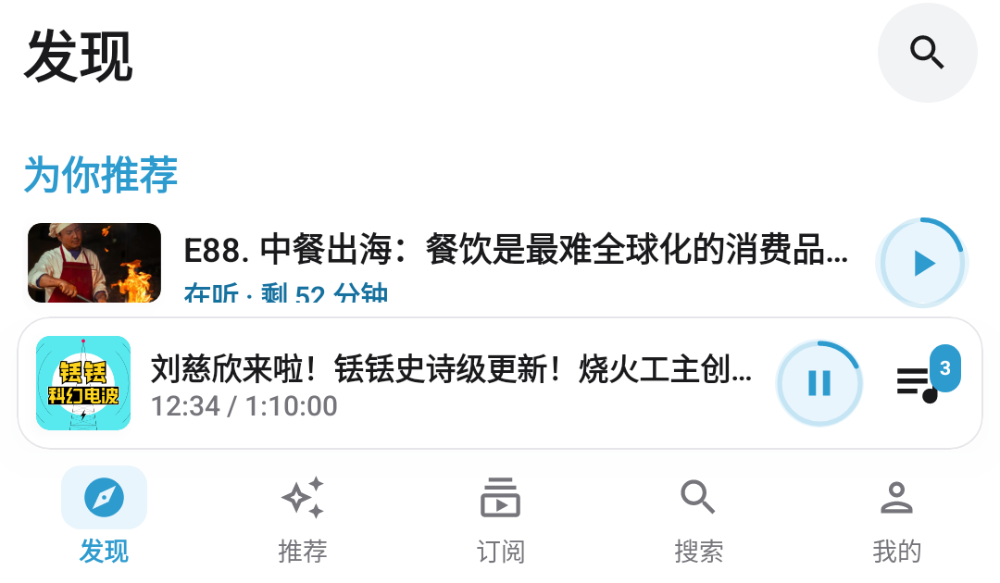
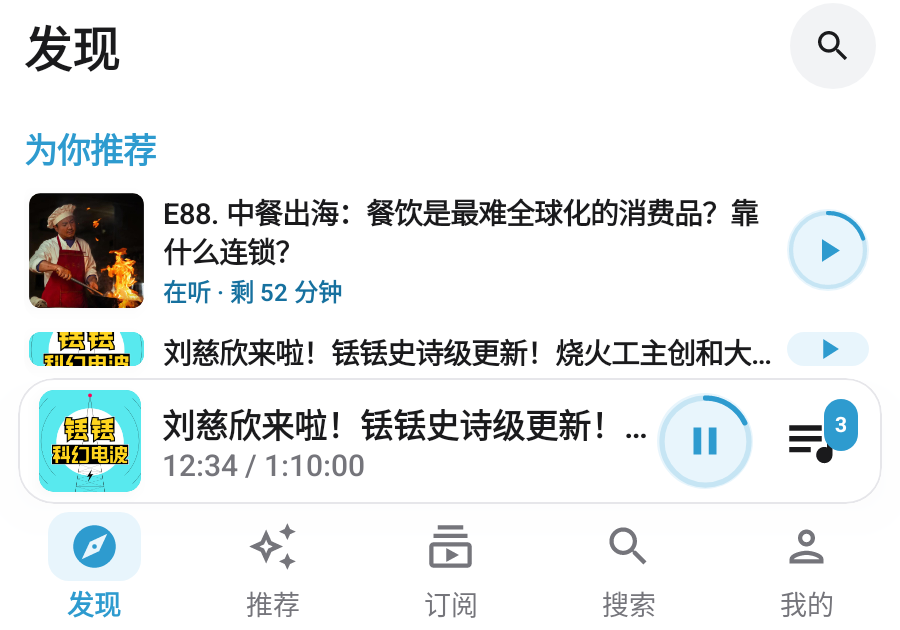
feat(ui): scale only the content area and tighten cards
The car screen showed too little per page at the old default size, but
shrinking everything also shrank the navigation rail. Display size now
scales only the content area, the steps move down so the new default
equals the old smallest step, and recommend cards, the mini player and
the narrow bottom nav are more compact. Snapshots now use the car's
real 1280x600 dp window.

diff --git a/app/src/test/java/com/ryan/xyzcar/UiSnapshots.kt b/app/src/test/java/com/ryan/xyzcar/UiSnapshots.kt
@@ -45,7 +45,10 @@ import com.android.resources.ScreenOrientation
 import com.ryan.xyzcar.data.DemoData
 import com.ryan.xyzcar.data.Episode
 import com.ryan.xyzcar.player.PlayerUi
+import com.ryan.xyzcar.data.SIZE_DEFAULT
+import com.ryan.xyzcar.data.SIZE_SCALES
 import com.ryan.xyzcar.ui.BottomNav
+import com.ryan.xyzcar.ui.ContentScale
 import com.ryan.xyzcar.ui.NavRail
 import com.ryan.xyzcar.ui.Tab
 import com.ryan.xyzcar.ui.components.BigButton
@@ -125,27 +128,21 @@ class UiSnapshots {
         episode = DemoData.episodes.getOrElse(1) { DemoData.episodes.first() }, isPlaying = true, positionMs = 754_000, durationMs = 4_200_000, speed = 1.25f, connected = true,
     )
 
-    /** 截图用的车机横屏：1920×1080 @ 240dpi = 1280×720dp（和原型画板一样大） */
+    /** 截图用的车机横屏：1920×900 @ 240dpi = 1280×600dp（海豹 08 实车「车机信息」里的窗口大小） */
     private fun config(night: Boolean, portrait: Boolean = false, widthPx: Int = 1920) = DeviceConfig.PIXEL_C.copy(
-        screenWidth = if (portrait) 1080 else widthPx, screenHeight = if (portrait) 1920 else 1080, xdpi = 240, ydpi = 240,
+        screenWidth = if (portrait) 1080 else widthPx, screenHeight = if (portrait) 1920 else 900, xdpi = 240, ydpi = 240,
         density = ResDensity.HIGH, softButtons = false,
         orientation = if (portrait) ScreenOrientation.PORTRAIT else ScreenOrientation.LANDSCAPE,
         nightMode = if (night) NightMode.NIGHT else NightMode.NOTNIGHT,
     )
 
+    /** 和 App 一样的外框：左侧导航 | 内容（按「显示大小」缩放）+ 迷你播放条 */
     @Composable
-    private fun Scaled(scale: Float, content: @Composable () -> Unit) {
-        val d = LocalDensity.current
-        CompositionLocalProvider(LocalDensity provides Density(d.density * scale, d.fontScale), content = content)
-    }
-
-    /** 和 App 一样的外框：左侧导航 | 内容 + 迷你播放条 */
-    @Composable
-    private fun Landscape(tab: Tab?, content: @Composable () -> Unit) = androidx.compose.material3.Surface(color = Xyz.bg, contentColor = Xyz.text) {
+    private fun Landscape(tab: Tab?, scale: Float = SIZE_SCALES[SIZE_DEFAULT], content: @Composable () -> Unit) = androidx.compose.material3.Surface(color = Xyz.bg, contentColor = Xyz.text) {
         Row(Modifier.fillMaxSize().background(Xyz.bg)) {
             NavRail(tab) {}
             Column(Modifier.weight(1f).fillMaxHeight().padding(end = 24.dp, bottom = 16.dp)) {
-                Column(Modifier.weight(1f).fillMaxWidth().padding(start = 8.dp, top = 12.dp)) { content() }
+                Column(Modifier.weight(1f).fillMaxWidth().padding(start = 8.dp, top = 12.dp)) { ContentScale(scale) { Column { content() } } }
                 Spacer(Modifier.height(12.dp))
                 MiniPlayer(playing, 3, noop)
             }
@@ -227,9 +224,9 @@ class UiSnapshots {
         shot { XyzCarTheme(ThemeMode.Light) { Landscape(Tab.Subscriptions) { Updates() } } }
     }
 
-    @Test fun updatesDarkScaled130() {
+    @Test fun updatesDarkLargest() {
         paparazzi.unsafeUpdateConfig(config(night = true))
-        shot { XyzCarTheme(ThemeMode.Dark) { Scaled(1.3f) { Landscape(Tab.Subscriptions) { Updates() } } } }
+        shot { XyzCarTheme(ThemeMode.Dark) { Landscape(Tab.Subscriptions, SIZE_SCALES.last()) { Updates() } } }
     }
 
     @Test fun searchResultsLight() {
@@ -292,11 +289,11 @@ class UiSnapshots {
         paparazzi.unsafeUpdateConfig(config(night = false, widthPx = 630))
         shot { XyzCarTheme(ThemeMode.Light) { androidx.compose.material3.Surface(color = Xyz.bg) {
             Column(Modifier.fillMaxSize()) {
-                Column(Modifier.weight(1f).padding(horizontal = 16.dp)) {
+                Column(Modifier.weight(1f).padding(horizontal = 16.dp)) { ContentScale(SIZE_SCALES[SIZE_DEFAULT]) { Column {
                     ScreenHeader("发现", null) { RoundIconButton(Icons.Filled.Search, "搜索") {} }
                     SectionTitle("为你推荐")
-                    eps.take(4).forEach { EpisodeRow(it, {}, {}) }
-                }
+                    eps.take(5).forEach { EpisodeRow(it, {}, {}) }
+                } } }
                 MiniPlayer(playing, 3, noop, Modifier.padding(horizontal = 12.dp))
                 BottomNav(Tab.Discover) {}
             }
@@ -334,8 +331,8 @@ class UiSnapshots {
     }
 
     /** 放大到特大时排序按钮换到第二行，标题不被挤 */
-    @Test fun queueLightScaled130() {
+    @Test fun queueLightLargest() {
         paparazzi.unsafeUpdateConfig(config(night = false))
-        shot { XyzCarTheme(ThemeMode.Light) { Scaled(1.3f) { Landscape(null) { Queue() } } } }
+        shot { XyzCarTheme(ThemeMode.Light) { Landscape(null, SIZE_SCALES.last()) { Queue() } } }
     }
 }

diff --git a/docs/screenshots/index.html b/docs/screenshots/index.html
@@ -15,12 +15,12 @@ img{width:100%;display:block;background:#000}figcaption{padding:10px 14px}figcap
 <figure><img src="recommendLight.png" loading="lazy" alt="推荐"><figcaption><b>推荐</b><span>分类胶囊 + 按节目封面取色的单集卡片（分类接口实测可用）</span></figcaption></figure>
 <figure><img src="recommendDark.png" loading="lazy" alt="推荐 · 深色"><figcaption><b>推荐 · 深色</b><span>卡片底色随深色模式压暗</span></figcaption></figure>
 <figure><img src="updatesLight.png" loading="lazy" alt="订阅 · 更新"><figcaption><b>订阅 · 更新</b><span>订阅节目的新单集，默认只看「未听 + 在听」；在听显示剩余时间和进度环</span></figcaption></figure>
-<figure><img src="updatesDarkScaled130.png" loading="lazy" alt="订阅 · 深色 · 特大"><figcaption><b>订阅 · 深色 · 特大</b><span>显示大小调到「特大」时不裁切</span></figcaption></figure>
+<figure><img src="updatesDarkLargest.png" loading="lazy" alt="订阅 · 深色 · 特大"><figcaption><b>订阅 · 深色 · 特大</b><span>显示大小调到「特大」时不裁切</span></figcaption></figure>
 <figure><img src="searchResultsLight.png" loading="lazy" alt="搜索结果"><figcaption><b>搜索结果</b><span>左边相关节目、右边单集，关键词高亮；付费单集置灰</span></figcaption></figure>
 <figure><img src="meLight.png" loading="lazy" alt="我的"><figcaption><b>我的</b><span>账号、收听历史、车机信息、关于；外观三选一、显示大小刻度滑杆</span></figcaption></figure>
 <figure><img src="playerFull.png" loading="lazy" alt="全屏播放页"><figcaption><b>全屏播放页</b><span>点迷你播放条从底部滑出；进度条可点可拖，倍速、定时关闭</span></figcaption></figure>
 <figure><img src="narrowSplitLight.png" loading="lazy" alt="分屏 1/3"><figcaption><b>分屏 1/3</b><span>窄屏时改用底部导航</span></figcaption></figure>
 <figure><img src="queueLight.png" loading="lazy" alt="播放列表"><figcaption><b>播放列表</b><span>上移 / 下移 / 移除</span></figcaption></figure>
-<figure><img src="queueLightScaled130.png" loading="lazy" alt="播放列表 · 特大"><figcaption><b>播放列表 · 特大</b><span>按钮换到第二行，标题不被挤</span></figcaption></figure>
+<figure><img src="queueLightLargest.png" loading="lazy" alt="播放列表 · 特大"><figcaption><b>播放列表 · 特大</b><span>按钮换到第二行，标题不被挤</span></figcaption></figure>
 <figure><img src="loginLight.png" loading="lazy" alt="登录 · 等待扫码"><figcaption><b>登录 · 等待扫码</b><span>横屏浅色</span></figcaption></figure>
 <figure><img src="loginDarkScannedPortrait.png" loading="lazy" alt="登录 · 已扫码"><figcaption><b>登录 · 已扫码</b><span>竖屏深色</span></figcaption></figure></div></main></body></html>

diff --git a/app/src/main/java/com/ryan/xyzcar/data/LocalStore.kt b/app/src/main/java/com/ryan/xyzcar/data/LocalStore.kt
@@ -12,9 +12,16 @@ data class LastPlayed(val episode: Episode, val positionMs: Long, val speed: Flo
 @Serializable
 data class PendingProgress(val eid: String, val pid: String, val progressSec: Int, val playedAt: String)
 
-/** 显示大小每一档的整体缩放 */
-val SIZE_SCALES = listOf(0.8f, 0.9f, 1.0f, 1.15f, 1.3f)
+/**
+ * 显示大小每一档对内容区的缩放（左侧导航、迷你播放条、全屏播放页不跟着缩放）。
+ * 0.0.4 起「标准」= 以前的「较小」：车机实测以前的标准档卡片太大、一屏内容太少。
+ */
+val SIZE_SCALES = listOf(0.68f, 0.74f, 0.8f, 0.9f, 1.0f)
 val SIZE_LABELS = listOf("较小", "小", "标准", "大", "特大")
+const val SIZE_DEFAULT = 2
+
+/** 0.0.2–0.0.3 的 5 档整体缩放，只用来迁移旧设置 */
+private val OLD_SIZE_SCALES = listOf(0.8f, 0.9f, 1.0f, 1.15f, 1.3f)
 
 /** 本地状态：上次播放、播放队列、待补发的进度、最近搜索、列表缓存 */
 class LocalStore(context: Context) {
@@ -43,16 +50,21 @@ class LocalStore(context: Context) {
         set(v) = prefs.edit().putString("theme_mode", v).apply()
 
     /**
-     * 显示大小 5 档（0 较小 … 2 标准 … 4 特大），对应整体缩放 [SIZE_SCALES]。
-     * 0.0.1 存的是缩放比例 ui_scale（0.7–1.3），第一次读取时换算成最接近的一档。
+     * 显示大小 5 档（0 较小 … 2 标准 … 4 特大），对应内容区缩放 [SIZE_SCALES]。
+     * 旧版本存的 size_level（0.0.2–0.0.3）或 ui_scale（0.0.1）按实际缩放换算成最接近的新档位，
+     * 所以升级后内容大小不变、左侧导航恢复原尺寸。
      */
     var sizeLevel: Int
         get() {
-            if (prefs.contains("size_level")) return prefs.getInt("size_level", 2).coerceIn(0, SIZE_SCALES.lastIndex)
-            val old = prefs.getFloat("ui_scale", 1f)
+            if (prefs.contains("content_size")) return prefs.getInt("content_size", SIZE_DEFAULT).coerceIn(0, SIZE_SCALES.lastIndex)
+            val old = when {
+                prefs.contains("size_level") -> OLD_SIZE_SCALES[prefs.getInt("size_level", 2).coerceIn(0, OLD_SIZE_SCALES.lastIndex)]
+                prefs.contains("ui_scale") -> prefs.getFloat("ui_scale", 1f)
+                else -> return SIZE_DEFAULT
+            }
             return SIZE_SCALES.indices.minBy { kotlin.math.abs(SIZE_SCALES[it] - old) }
         }
-        set(v) = prefs.edit().putInt("size_level", v.coerceIn(0, SIZE_SCALES.lastIndex)).remove("ui_scale").apply()
+        set(v) = prefs.edit().putInt("content_size", v.coerceIn(0, SIZE_SCALES.lastIndex)).remove("size_level").remove("ui_scale").apply()
 
     /** 上次成功检查更新的时间；自动检查每天最多一次 */
     var lastUpdateCheck: Long

diff --git a/app/src/main/java/com/ryan/xyzcar/ui/MainLayout.kt b/app/src/main/java/com/ryan/xyzcar/ui/MainLayout.kt
@@ -45,6 +45,7 @@ import androidx.compose.material3.SnackbarHost
 import androidx.compose.material3.SnackbarHostState
 import androidx.compose.material3.Text
 import androidx.compose.runtime.Composable
+import androidx.compose.runtime.CompositionLocalProvider
 import androidx.compose.runtime.LaunchedEffect
 import androidx.compose.runtime.collectAsState
 import androidx.compose.runtime.getValue
@@ -55,6 +56,8 @@ import androidx.compose.ui.Modifier
 import androidx.compose.ui.draw.clip
 import androidx.compose.ui.graphics.Color
 import androidx.compose.ui.graphics.vector.ImageVector
+import androidx.compose.ui.platform.LocalDensity
+import androidx.compose.ui.unit.Density
 import androidx.compose.ui.semantics.selected
 import androidx.compose.ui.semantics.semantics
 import androidx.compose.ui.text.font.FontWeight
@@ -111,8 +114,9 @@ fun MainLayout(vm: AppViewModel) {
             cycleSleep = vm.player::cycleSleep,
         )
     }
-    // 旋转、分屏改变宽度时内容区整体搬家，不丢状态、不重放转场
-    val content = remember { movableContentOf { ContentArea(vm) } }
+    // 旋转、分屏改变宽度时内容区整体搬家，不丢状态、不重放转场。
+    // 「显示大小」只缩放内容区；导航和播放条保持车机触控尺寸
+    val content = remember { movableContentOf { ContentScale(vm.uiScale) { ContentArea(vm) } } }
 
     val contentWithSnackbar = @Composable { m: Modifier ->
         Box(m) {
@@ -157,6 +161,14 @@ fun MainLayout(vm: AppViewModel) {
             FullPlayer(ps, left, actions)
         }
     }
+}
+
+/** 内容区缩放：换算 density，文字、封面、间距一起变，切换档位时平滑过渡 */
+@Composable
+fun ContentScale(scale: Float, content: @Composable () -> Unit) {
+    val s by androidx.compose.animation.core.animateFloatAsState(scale, tween(300), label = "contentScale")
+    val base = LocalDensity.current
+    CompositionLocalProvider(LocalDensity provides Density(base.density * s, base.fontScale), content = content)
 }
 
 /** 导航项：选中是强调色图标 + 浅青底，颜色切换有渐变 */
@@ -206,6 +218,6 @@ fun NavRail(selected: Tab?, onTab: (Tab) -> Unit) {
 @Composable
 fun BottomNav(selected: Tab?, onTab: (Tab) -> Unit) {
     Row(Modifier.fillMaxWidth().padding(horizontal = 4.dp, vertical = 4.dp), horizontalArrangement = Arrangement.spacedBy(2.dp)) {
-        Tab.entries.forEach { t -> NavItem(t, selected == t, Modifier.weight(1f), 88.dp, true) { onTab(t) } }
+        Tab.entries.forEach { t -> NavItem(t, selected == t, Modifier.weight(1f), 76.dp, true) { onTab(t) } }
     }
 }

diff --git a/app/src/main/java/com/ryan/xyzcar/MainActivity.kt b/app/src/main/java/com/ryan/xyzcar/MainActivity.kt
@@ -6,9 +6,6 @@ import android.os.Bundle
 import androidx.activity.ComponentActivity
 import androidx.activity.compose.setContent
 import androidx.activity.enableEdgeToEdge
-import androidx.compose.runtime.CompositionLocalProvider
-import androidx.compose.ui.platform.LocalDensity
-import androidx.compose.ui.unit.Density
 import androidx.activity.viewModels
 import com.ryan.xyzcar.ui.AppViewModel
 import com.ryan.xyzcar.ui.MainLayout
@@ -36,15 +33,12 @@ class MainActivity : ComponentActivity() {
         }
         setContent {
             XyzCarTheme(vm.themeMode) {
-                val base = LocalDensity.current
-                CompositionLocalProvider(LocalDensity provides Density(base.density * vm.uiScale, base.fontScale)) {
-                    // 根节点用 Surface，保证深色模式下默认文字是浅色
-                    androidx.compose.material3.Surface(
-                        color = androidx.compose.material3.MaterialTheme.colorScheme.background,
-                        contentColor = androidx.compose.material3.MaterialTheme.colorScheme.onBackground,
-                    ) {
-                        if (vm.loggedIn) MainLayout(vm) else LoginScreen(vm)
-                    }
+                // 根节点用 Surface，保证深色模式下默认文字是浅色
+                androidx.compose.material3.Surface(
+                    color = androidx.compose.material3.MaterialTheme.colorScheme.background,
+                    contentColor = androidx.compose.material3.MaterialTheme.colorScheme.onBackground,
+                ) {
+                    if (vm.loggedIn) MainLayout(vm) else LoginScreen(vm)
                 }
             }
         }

diff --git a/app/src/main/java/com/ryan/xyzcar/ui/screens/RecommendScreen.kt b/app/src/main/java/com/ryan/xyzcar/ui/screens/RecommendScreen.kt
@@ -298,19 +298,19 @@ internal fun RecommendCard(ep: Episode, playing: Boolean, onOpen: () -> Unit, on
             .fillMaxWidth()
             .card(RoundedCornerShape(24.dp), bg, x.shadow, null, 10.dp)
             .pressable(pressedScale = 0.98f) { onOpen() }
-            .padding(22.dp),
+            .padding(18.dp),
     ) {
         Row {
-            Column(Modifier.weight(1f).heightIn(min = 140.dp)) {
+            Column(Modifier.weight(1f).heightIn(min = 112.dp)) {
                 Text(ep.title, style = MaterialTheme.typography.titleLarge, color = x.text, maxLines = 2, overflow = TextOverflow.Ellipsis)
                 Spacer(Modifier.height(6.dp))
                 val desc = ep.description.replace(Regex("""\[[^\]]*\.(png|jpe?g|gif|webp)]""", RegexOption.IGNORE_CASE), "").replace(Regex("\\s+"), " ").trim()
                 if (desc.isNotEmpty()) Text(desc, style = MaterialTheme.typography.bodyMedium, color = x.sub, maxLines = 2, overflow = TextOverflow.Ellipsis)
             }
             Spacer(Modifier.width(18.dp))
-            Cover(ep.coverUrl, 140.dp, title = ep.podcastTitle, color = ep.color, radius = 16.dp)
+            Cover(ep.coverUrl, 112.dp, title = ep.podcastTitle, color = ep.color, radius = 16.dp)
         }
-        Spacer(Modifier.height(16.dp))
+        Spacer(Modifier.height(10.dp))
         Row(verticalAlignment = Alignment.CenterVertically) {
             Text(ep.podcastTitle, style = MaterialTheme.typography.bodyMedium, color = x.text, fontWeight = FontWeight.SemiBold, maxLines = 1, overflow = TextOverflow.Ellipsis, modifier = Modifier.weight(1f, fill = false))
             if (ep.playCount > 0) {

diff --git a/app/src/main/java/com/ryan/xyzcar/ui/screens/MeScreen.kt b/app/src/main/java/com/ryan/xyzcar/ui/screens/MeScreen.kt
@@ -261,7 +261,7 @@ private fun SettingsColumn(vm: AppViewModel) {
         }
     }
     Text("显示大小", style = MaterialTheme.typography.titleLarge, color = x.text, modifier = Modifier.padding(top = 36.dp, bottom = 6.dp))
-    Text("文字和按钮一起缩放，车上看着偏大或偏小时调整", style = MaterialTheme.typography.bodyMedium, color = x.sub)
+    Text("调整内容区的文字和封面大小，左侧导航和播放条保持不变", style = MaterialTheme.typography.bodyMedium, color = x.sub)
     TickSlider(vm.sizeLevel, SIZE_LABELS, vm::updateSize)
     Text(
         "示例：vol.275 桃酥辣条干脆面",

diff --git a/app/src/main/java/com/ryan/xyzcar/ui/AppViewModel.kt b/app/src/main/java/com/ryan/xyzcar/ui/AppViewModel.kt
@@ -152,7 +152,7 @@ class AppViewModel(application: Application) : AndroidViewModel(application) {
         private set
     fun bumpQueue() { queueVersion++ }
 
-    /** 显示大小（5 档，整体缩放）：实车屏幕密度未知，留一个手动调节 */
+    /** 显示大小（5 档，只缩放内容区） */
     var sizeLevel by mutableStateOf(app.local.sizeLevel)
         private set
     val uiScale: Float get() = com.ryan.xyzcar.data.SIZE_SCALES[sizeLevel]

diff --git a/app/src/main/java/com/ryan/xyzcar/ui/theme/Theme.kt b/app/src/main/java/com/ryan/xyzcar/ui/theme/Theme.kt
@@ -33,7 +33,7 @@ object Dims {
     val cover = 96.dp
     val radius = 16.dp
     val railWidth = 112.dp
-    val miniPlayer = 96.dp
+    val miniPlayer = 84.dp
     /** 窄于这个宽度用底部导航（分屏 1/3 等） */
     val narrow = 600.dp
     /** 宽于这个宽度用两栏 / 横向分页 */
